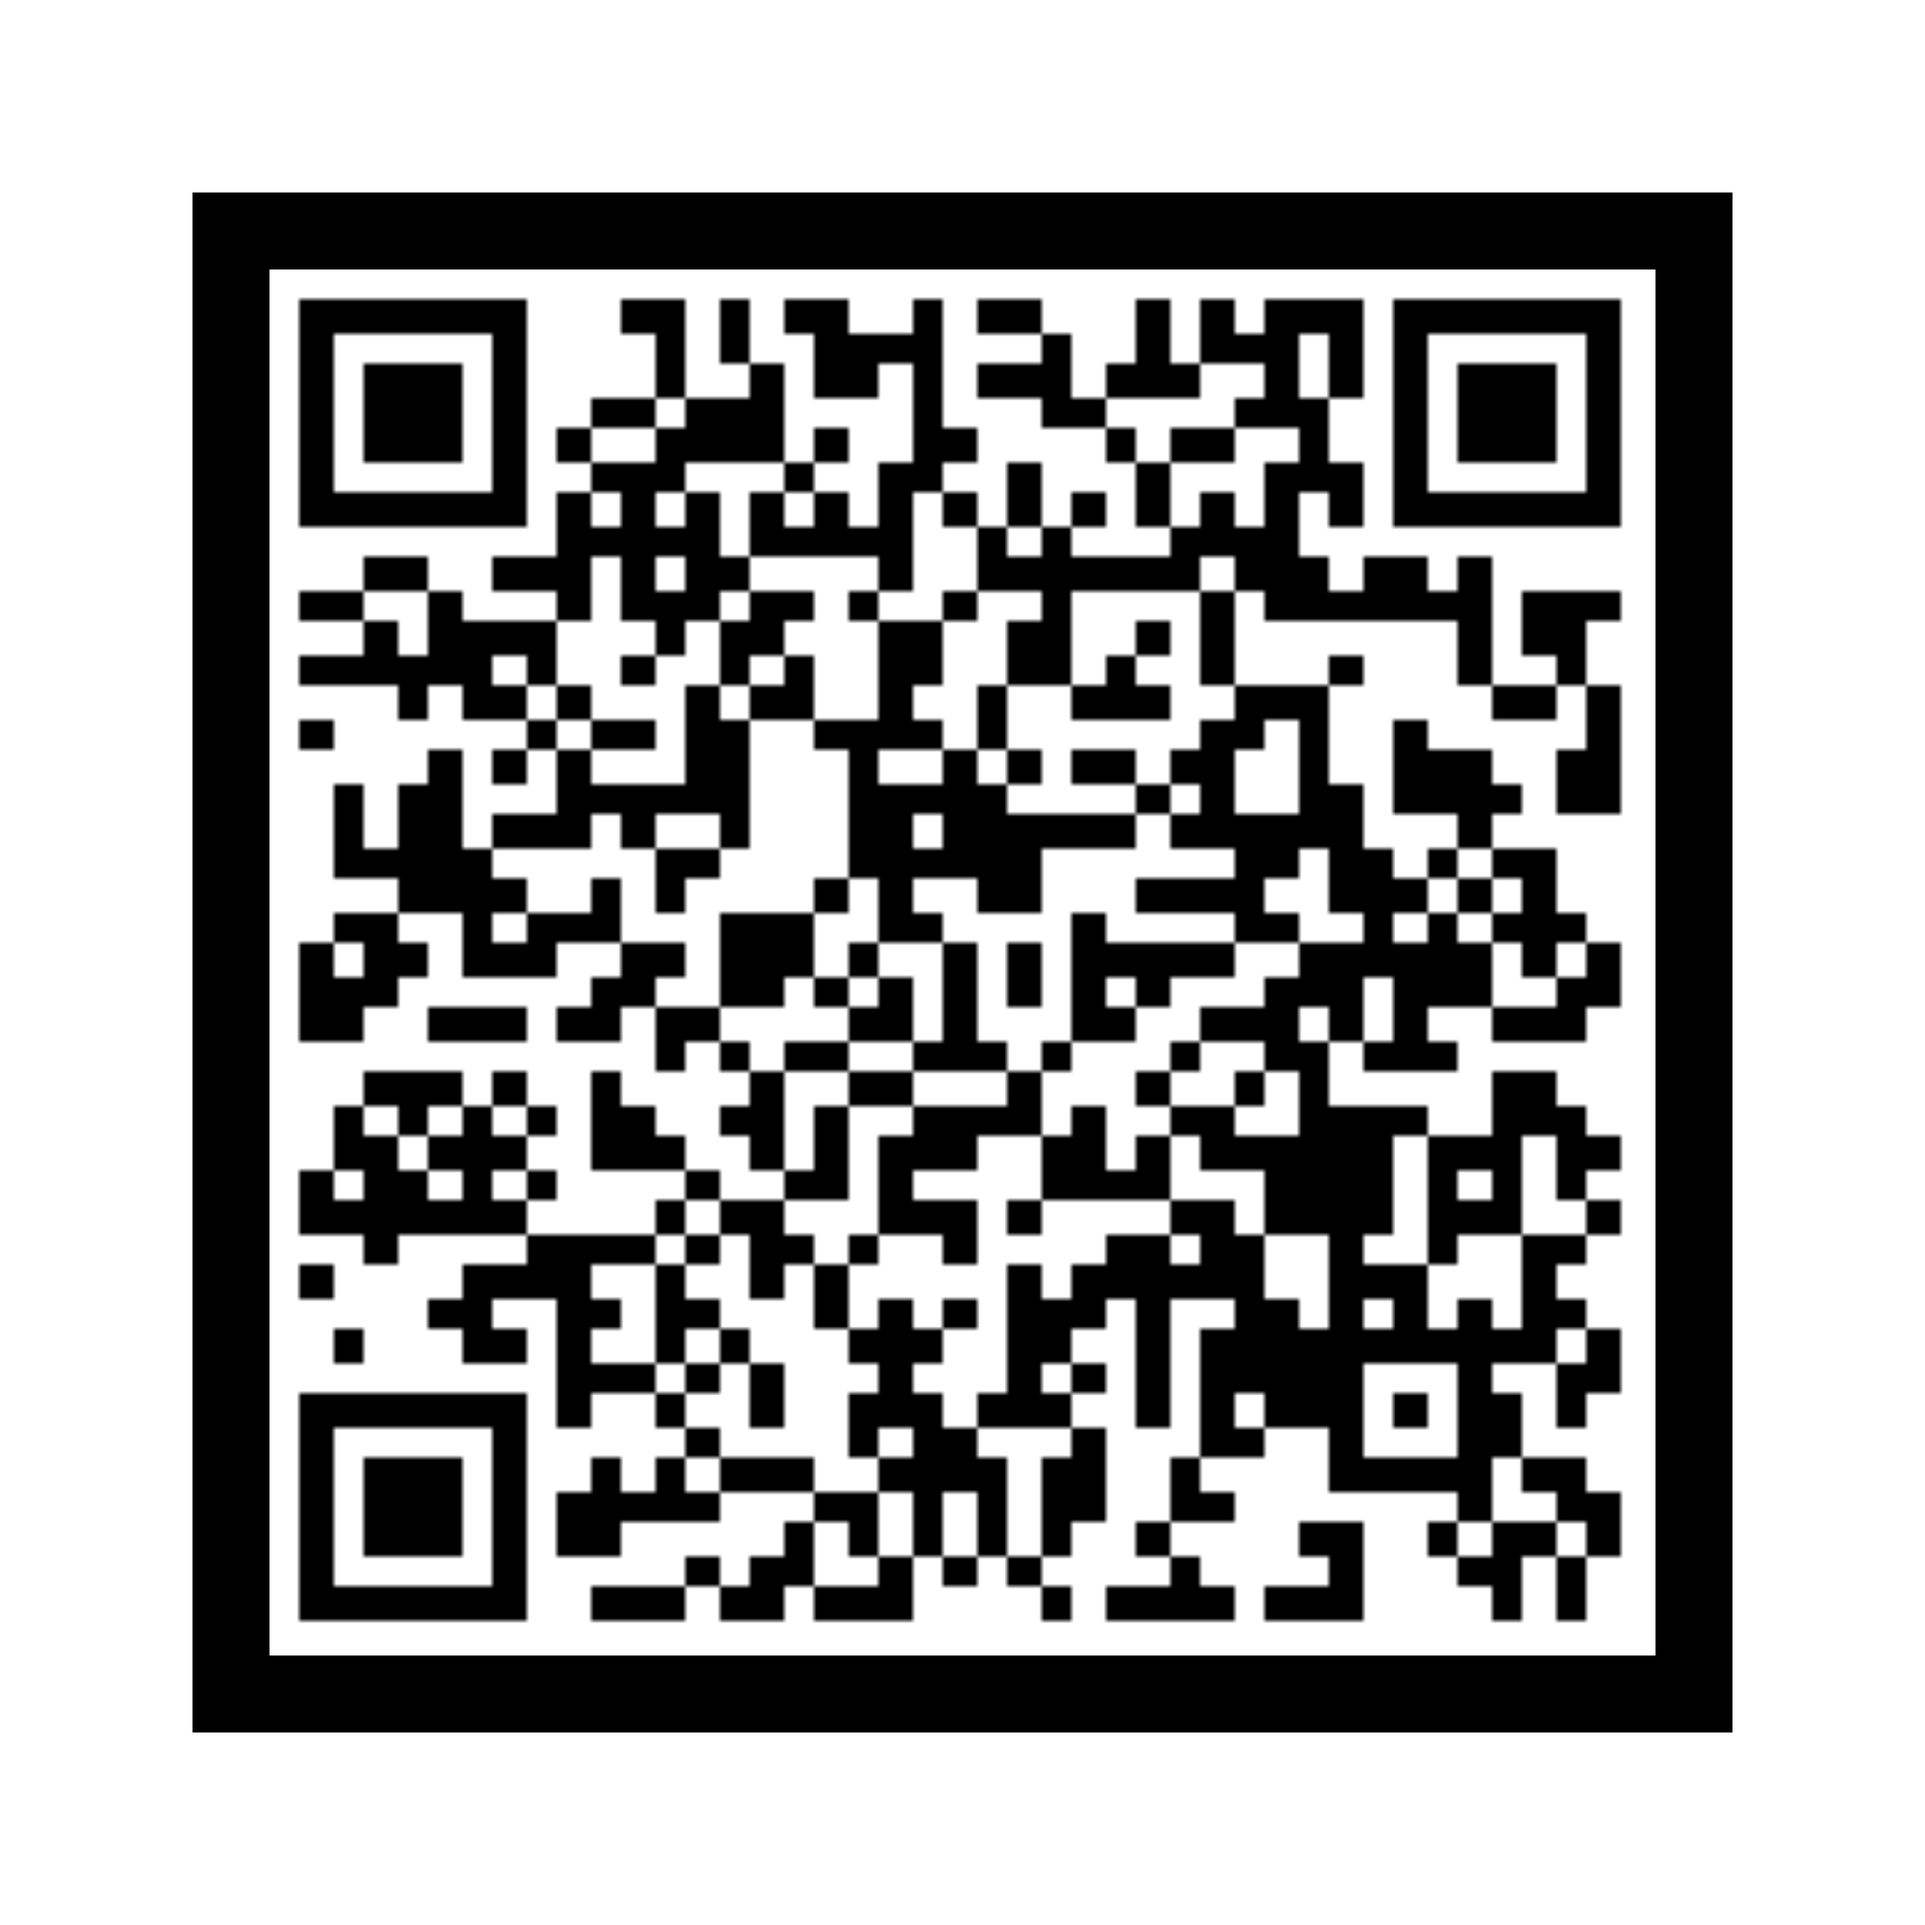
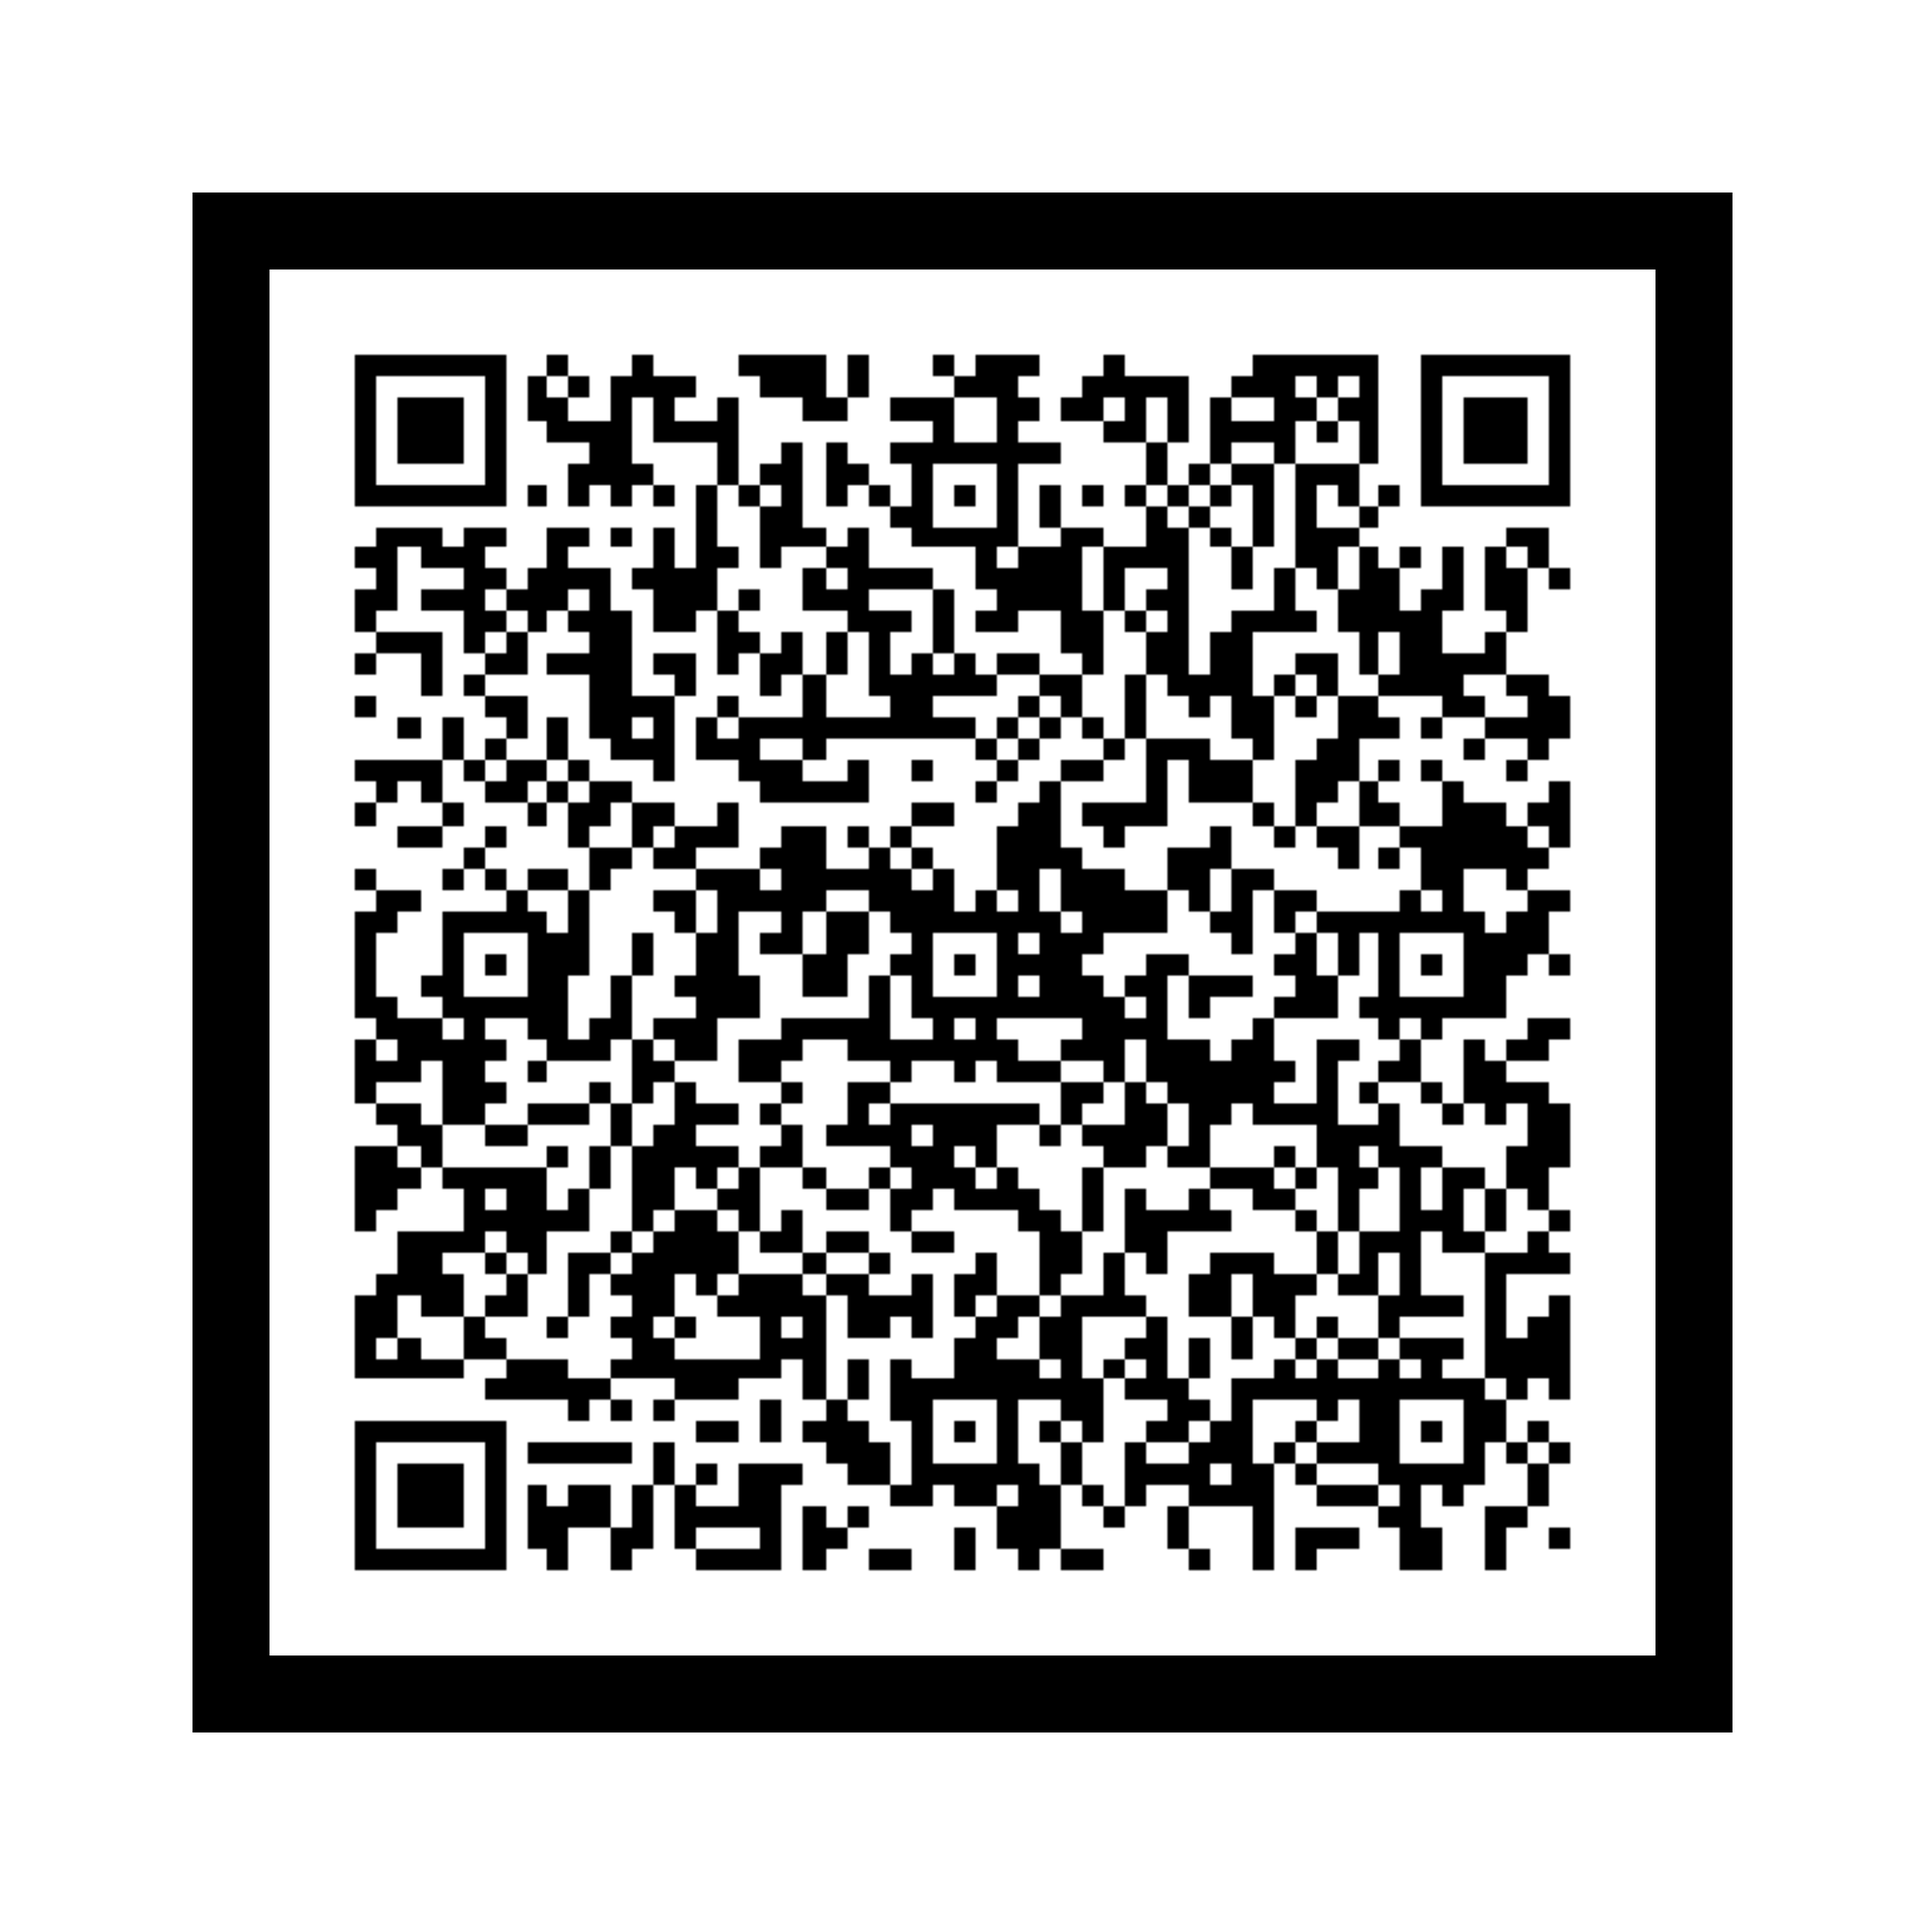
pattern-qrcode.patt

Changed region(s): [[0.156, 0.156, 0.8424, 0.8424]]

diff --git a/kizuna_ai_x_azurlane/index.html b/kizuna_ai_x_azurlane/index.html
@@ -14,7 +14,7 @@
 
   <body style="margin:0px; overflow: hidden;">
     <a-scene embedded arjs="sourceType: webcam;debugUIEnabled: false;">
-      <a-marker preset="hiro">
+      <a-marker type='pattern' url='pattern-qrcode.patt'>
         <a-entity
           position="0 0 0"
           scale='0.05 0.05 0.05'
